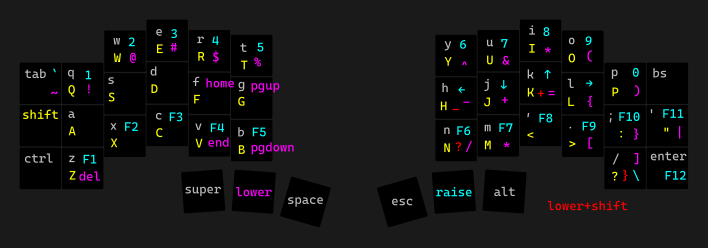
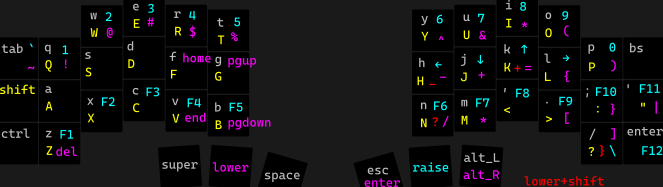
added enter and alt_L alt_R

Changed region(s): [[0.5128, 0.0, 1.0, 1.0], [0.0, 0.0, 0.4827, 1.0], [0.7843, 0.9358, 0.905, 1.0]]

diff --git a/README.md b/README.md
@@ -1,33 +1,33 @@
-# Piantor 42 keys layout (QWERTY)
+# Piantor 42 keys layout
 
-Goal:
-- keep the layout as standard as possible, making it easy to switch between the Piantorand a fullsize or laptop keyboard.
+![](https://github.com/jdvfx/piantor42/blob/main/piantor_layout.png)
+
+> Goal:
+- keep the layout as standard as possible, </br>
+making it easy to switch between 42keys and a fullsize or laptop keyboard.
+- minimal learning curve (qwerty, no home-row mod, no auto-shift, no tap-dance)
 - remove duplicated keys (almost done)
-- move F keys on a layer. Realistically, I only ever use F1.
-
-- arrow in Vim position (hjkl)
-
-- brackets are in logical priority order: (){}[]
-function(){
+- remove unused keys: capslock/scroll lock/pause
+- move F-keys on a layer. Realistically, I only ever use F1.
+- arrow keys in Vim position (hjkl)
+- brackets are in logical priority order: (){}[]</br>
+<code>function(){
     array[]
-}
+}</code></br>
+- -+= are inline for easy coding += -=
+- "delete" is a combo, much safer than a single key press.
+- "Enter" can be pressed with the right thumb or pinkie
 
-"delete" is a combo, much safer than a single key press.
+> keys in same position as on a standard layout: </br>
+- bottom to top: ctrl, shift, tab </br>
+- left to right: crtl, super, space </br>
+- top row: numbers and corresponding symbols </br>
+- backspace and enter </br>
+- 3 keys on the right side of "M" </br>
 
-- keys in same position as a standard layout:
-bottom to top: ctr, shift, tab 
-left to right: crtl, super, space
-top row: numbers and corresponding symbols 
-backspace and enter
-3 keys on the right side of "M"
-
-- to do:
-add "insert" key? used very rarely in 2 softwares
-cleanup "n" key. I don't use ?/ 
-cleanup the "/" key. I don't use }
-cleanup "m" key. remove *
-cleanup "k" key. remove +
-
-
-
-
+> to do:
+- add "insert" key? used very rarely in 2 softwares </br>
+- cleanup "n" key. I don't use ?/  </br>
+- cleanup the "/" key. I don't use } </br>
+- cleanup "m" key. remove * </br>
+- cleanup "k" key. remove + </br>
